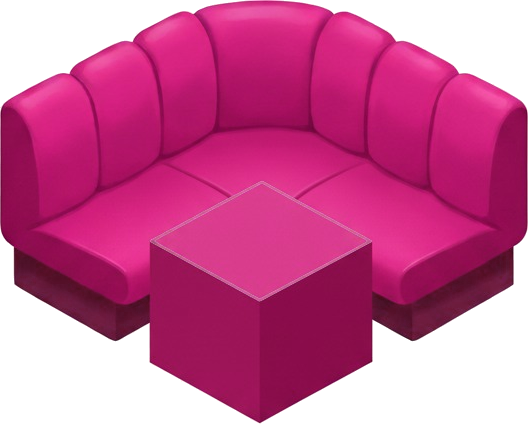
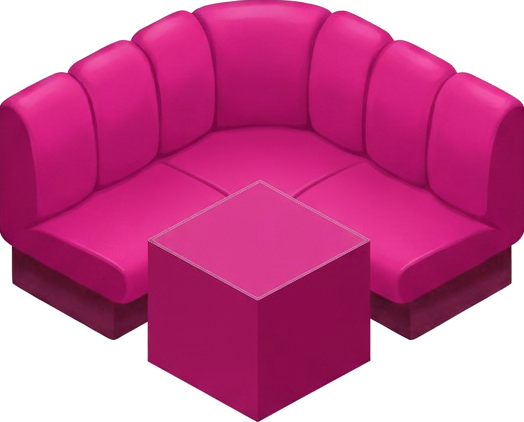
add table cleaning + refresh the look + new media

diff --git a/src/components/interior.tsx b/src/components/interior.tsx
@@ -4,7 +4,7 @@ import React, {useEffect, useState} from "react";
 import Image from "next/image";
 import {
     BookHeart,
-    BookUser,
+    BookUser, BrushCleaning,
     DoorClosed,
     DoorOpen,
     Gavel,
@@ -43,12 +43,13 @@ interface InteriorProps {
     setInquiryType: (value: (((prevState: ("Service" | "Buffet" | "End" | null)[]) => ("Service" | "Buffet" | "End" | null)[]) | ("Service" | "Buffet" | "End" | null)[])) => void,
     visit: boolean[],
     setVisit: (value: (((prevState: boolean[]) => boolean[]) | boolean[])) => void,
-    serviceType: (ServiceType | null)[]
+    serviceType: (ServiceType | null)[],
     setServiceType: (
         value:
             | ((prevState: (ServiceType | null)[]) => (ServiceType | null)[])
             | (ServiceType | null)[]
-    ) => void
+    ) => void,
+    setDinedTables: (value: (((prevState: boolean[]) => boolean[]) | boolean[])) => void
 }
 
 interface Hostess {
@@ -77,7 +78,8 @@ const Interior = ({
                       visit,
                       setVisit,
                       serviceType,
-                      setServiceType
+                      setServiceType,
+                      setDinedTables
                   }: InteriorProps) => {
     const items = Array(8).fill(null)
     const [clients, setClients] = useState<boolean[]>(Array(8).fill(false))
@@ -241,7 +243,7 @@ const Interior = ({
             updated[i] = type
             return updated
         })
-        if(type === "Service"){
+        if (type === "Service") {
             setServiceType(prev => {
                 const updated = [...prev]
                 updated[i] = SERVICE_TYPES[Math.floor(Math.random() * SERVICE_TYPES.length)]
@@ -297,25 +299,40 @@ const Interior = ({
                              }}>
                             <Image
                                 src={
-                                    inquiry[i] && dinedTables[i] ?
-                                        "/images/position_call_dined.png"
-                                        : dinedTables[i] && hostesses[i] && clients[i]
-                                            ? "/images/position_dined.png"
-                                            : inquiry[i]
-                                                ? "/images/position_call.png"
-                                                : hostesses[i] && clients[i]
-                                                    ? "/images/position_full.png"
-                                                    : hostesses[i]
-                                                        ? "/images/position_hostess.png"
-                                                        : clients[i]
-                                                            ? "/images/position_client.png"
-                                                            : "/images/position_empty.png"
+                                    !visit[i] && dinedTables[i] ?
+                                        "/images/position_empty_dined.png"
+                                        : inquiry[i] && dinedTables[i]
+                                            ? "/images/position_call_dined.png"
+                                            : dinedTables[i] && hostesses[i] && clients[i]
+                                                ? "/images/position_dined.png"
+                                                : inquiry[i]
+                                                    ? "/images/position_call.png"
+                                                    : hostesses[i] && clients[i]
+                                                        ? "/images/position_full.png"
+                                                        : hostesses[i]
+                                                            ? "/images/position_hostess.png"
+                                                            : clients[i]
+                                                                ? "/images/position_client.png"
+                                                                : "/images/position_empty.png"
                                 }
                                 alt={"Meeting position"}
                                 height={424}
                                 width={528}
                                 className={"flex justify-center items-center"}
                             />
+                            {!visit[i] && dinedTables[i] && (
+                                <div
+                                    className={`absolute bottom-15 border-2 p-2 rounded-[10] z-50 text-pink-300 hover:text-pink-500 bg-pink-950 hover:bg-red-950 duration-200 ease-in-out scale-100 active:scale-105 shadow-sm shadow-pink-300 hover:shadow-pink-500`}
+                                    onClick={() => {
+                                        setDinedTables(prev => {
+                                            const updated = [...prev]
+                                            updated[i] = false
+                                            return updated
+                                        })
+                                    }}>
+                                    <BrushCleaning size={20}/>
+                                </div>
+                            )}
                             <div
                                 className={`absolute w-55 flex flex-row justify-between items-center z-49 ${tableUIPositioning(i)}`}>
                                 {hostessAtTable ? (

diff --git a/src/components/hud.tsx b/src/components/hud.tsx
@@ -1,4 +1,4 @@
-import {CarTaxiFront, HeartHandshake, JapaneseYen, LogOut} from "lucide-react";
+import {CarTaxiFront, Flower, HeartHandshake, JapaneseYen, LogOut, MicVocal} from "lucide-react";
 import Image from "next/image";
 import {Dispatch, SetStateAction} from "react";
 
@@ -57,21 +57,23 @@ const Hud = ({club, logOff, setLogOff, selectionPrompt, setSelectionPrompt, setM
                 </div>
             </div>
             <div
-                className={"gap-5 bg-pink-500 w-60 h-30 text-center content-center items-center justify-center flex flex-row text-[20px] rounded-[20] text-white font-[600]"}>
-                <div className={"flex content-center justify-center flex-col gap-2"}>
+                className={"gap-5 bg-pink-500 p-3 text-center content-center items-center justify-center flex flex-row text-[20px] rounded-[20] text-white font-[600]"}>
+                <div className={"flex content-center justify-center items-center flex-row gap-2"}>
                     <button
-                        className={"border-white border-2 rounded-[10] p-2 cursor-zoom-in text-[15px] w-30 hover:bg-white hover:text-black transition duration-200 ease-in-out transform active:scale-110"}
+                        className={"border-white border-2 rounded-[10] p-2 cursor-zoom-in text-[15px] hover:bg-white hover:text-black transition duration-200 ease-in-out transform active:scale-110"}
                         onClick={() => {
                             setManagement(true)
                         }}
-                    >Management
+                    >
+                        <Flower/>
                     </button>
                     <button
-                        className={"border-white border-2 rounded-[10] p-2 cursor-copy text-[15px] w-30 hover:bg-white hover:text-black transition duration-200 ease-in-out transform active:scale-110"}
+                        className={"border-white border-2 rounded-[10] p-2 cursor-copy text-[15px] hover:bg-white hover:text-black transition duration-200 ease-in-out transform active:scale-110"}
                         onClick={() => {
                             setActivities(true)
                         }}
-                    >Activities
+                    >
+                        <MicVocal/>
                     </button>
                 </div>
                 <div className={"flex content-center justify-center gap-2"}>
@@ -86,7 +88,7 @@ const Hud = ({club, logOff, setLogOff, selectionPrompt, setSelectionPrompt, setM
                                 setSelectionPrompt(true)
                             }
                         }}
-                        className={"border-white border-2 rounded-[10] p-1 cursor-wait hover:bg-white hover:text-black transition duration-200 ease-in-out transform active:scale-110"}>
+                        className={"border-white border-2 rounded-[10] p-2 cursor-wait hover:bg-white hover:text-black transition duration-200 ease-in-out transform active:scale-110"}>
                         <CarTaxiFront/></button>
                     <button onClick={() => {
                         if (selectionPrompt) {
@@ -98,7 +100,7 @@ const Hud = ({club, logOff, setLogOff, selectionPrompt, setSelectionPrompt, setM
                             setLogOff(true)
                         }
                     }}
-                            className={"border-white border-2 rounded-[10] p-1 cursor-alias hover:bg-white hover:text-black transition duration-200 ease-in-out transform active:scale-110"}>
+                            className={"border-white border-2 rounded-[10] p-2 cursor-alias hover:bg-white hover:text-black transition duration-200 ease-in-out transform active:scale-110"}>
                         <LogOut/></button>
                 </div>
             </div>

diff --git a/src/components/main.tsx b/src/components/main.tsx
@@ -277,7 +277,7 @@ const Main = () => {
                 <MainWrapper>
                     <JamPlayer jams={jams} isJamPlaying={isJamPlaying} setIsJamPlaying={setIsJamPlaying}/>
                     <Navbar logo={clubLogo}/>
-                    <Interior hostesses={hostessesWorking} setHostesses={setHostessesWorking} selectedHostess={selectedHostess} setSelectedHostess={setSelectedHostess} setHostessesPanel={setHostessesPanel} dinedTables={dinedTables} setInquiryTableId={setInquiryTableId} setInquiryWindow={setInquiryWindow} inquiry={inquiry} setInquiry={setInquiry} inquiryType={inquiryType} setInquiryType={setInquiryType} visit={visit} setVisit={setVisit} serviceType={serviceType} setServiceType={setServiceType}/>
+                    <Interior hostesses={hostessesWorking} setHostesses={setHostessesWorking} selectedHostess={selectedHostess} setSelectedHostess={setSelectedHostess} setHostessesPanel={setHostessesPanel} dinedTables={dinedTables} setDinedTables={setDinedTables} setInquiryTableId={setInquiryTableId} setInquiryWindow={setInquiryWindow} inquiry={inquiry} setInquiry={setInquiry} inquiryType={inquiryType} setInquiryType={setInquiryType} visit={visit} setVisit={setVisit} serviceType={serviceType} setServiceType={setServiceType}/>
                     {club && (
                         <Hud
                             club={club}
